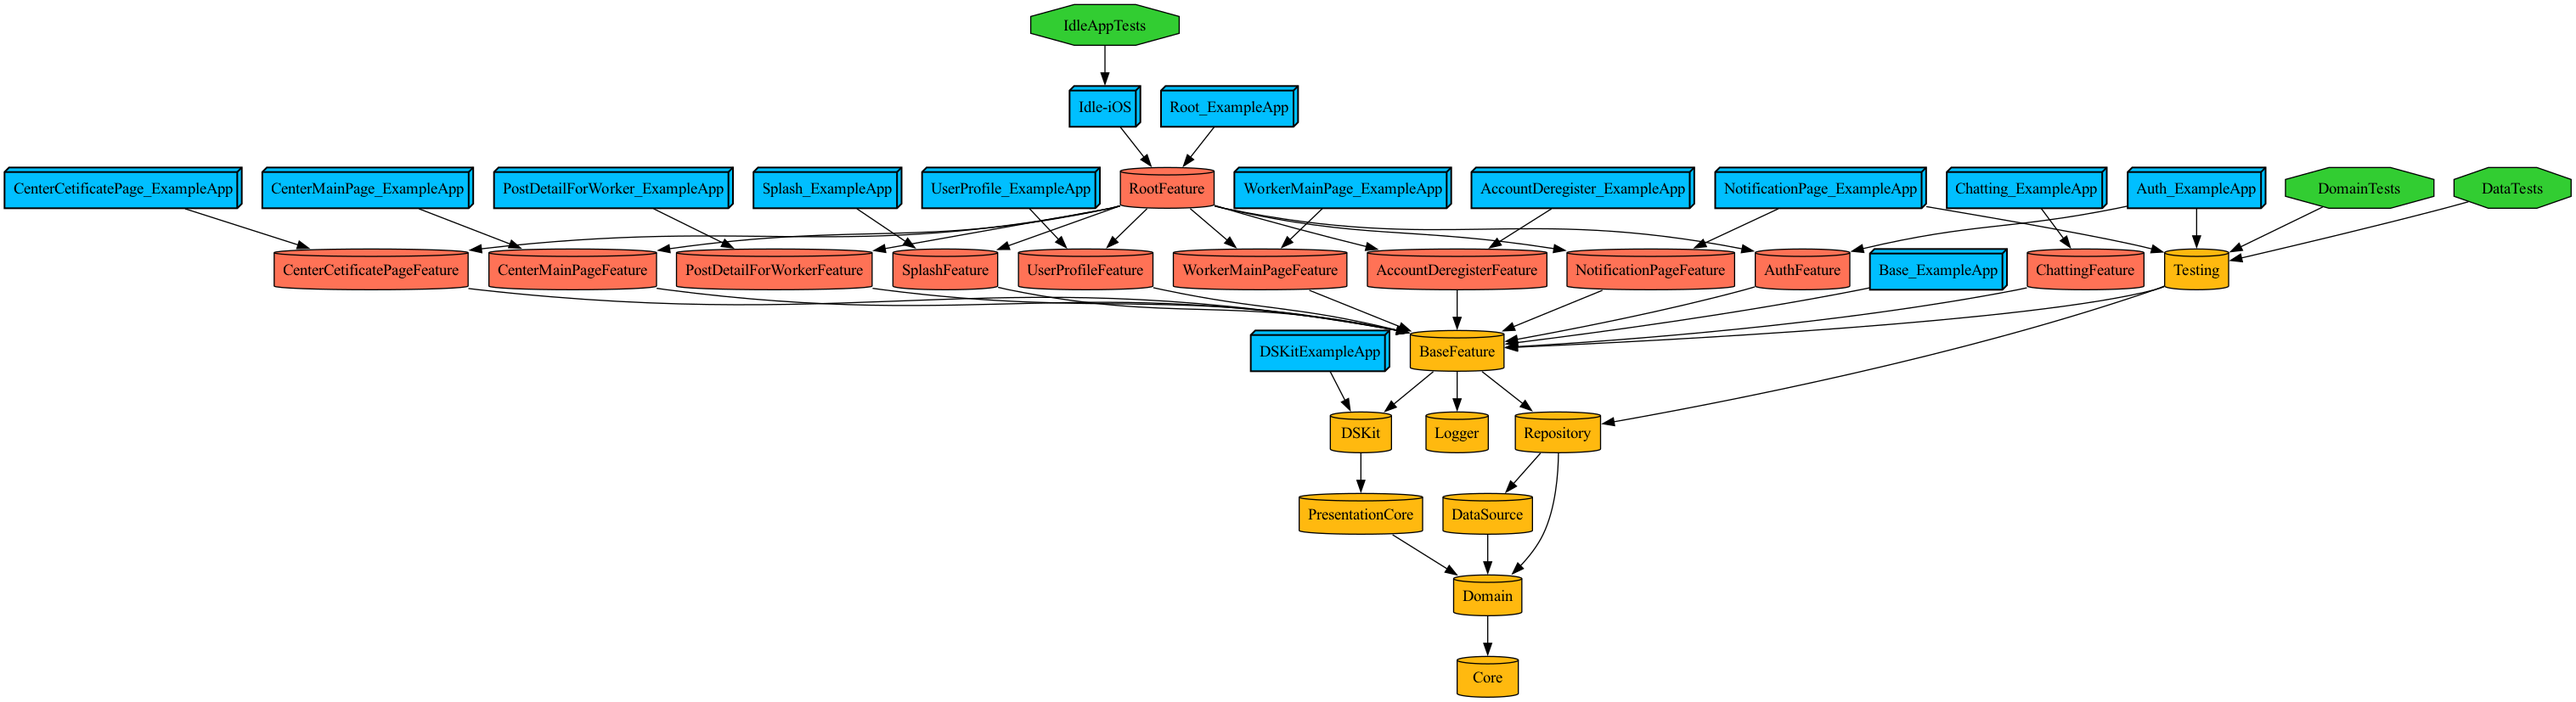
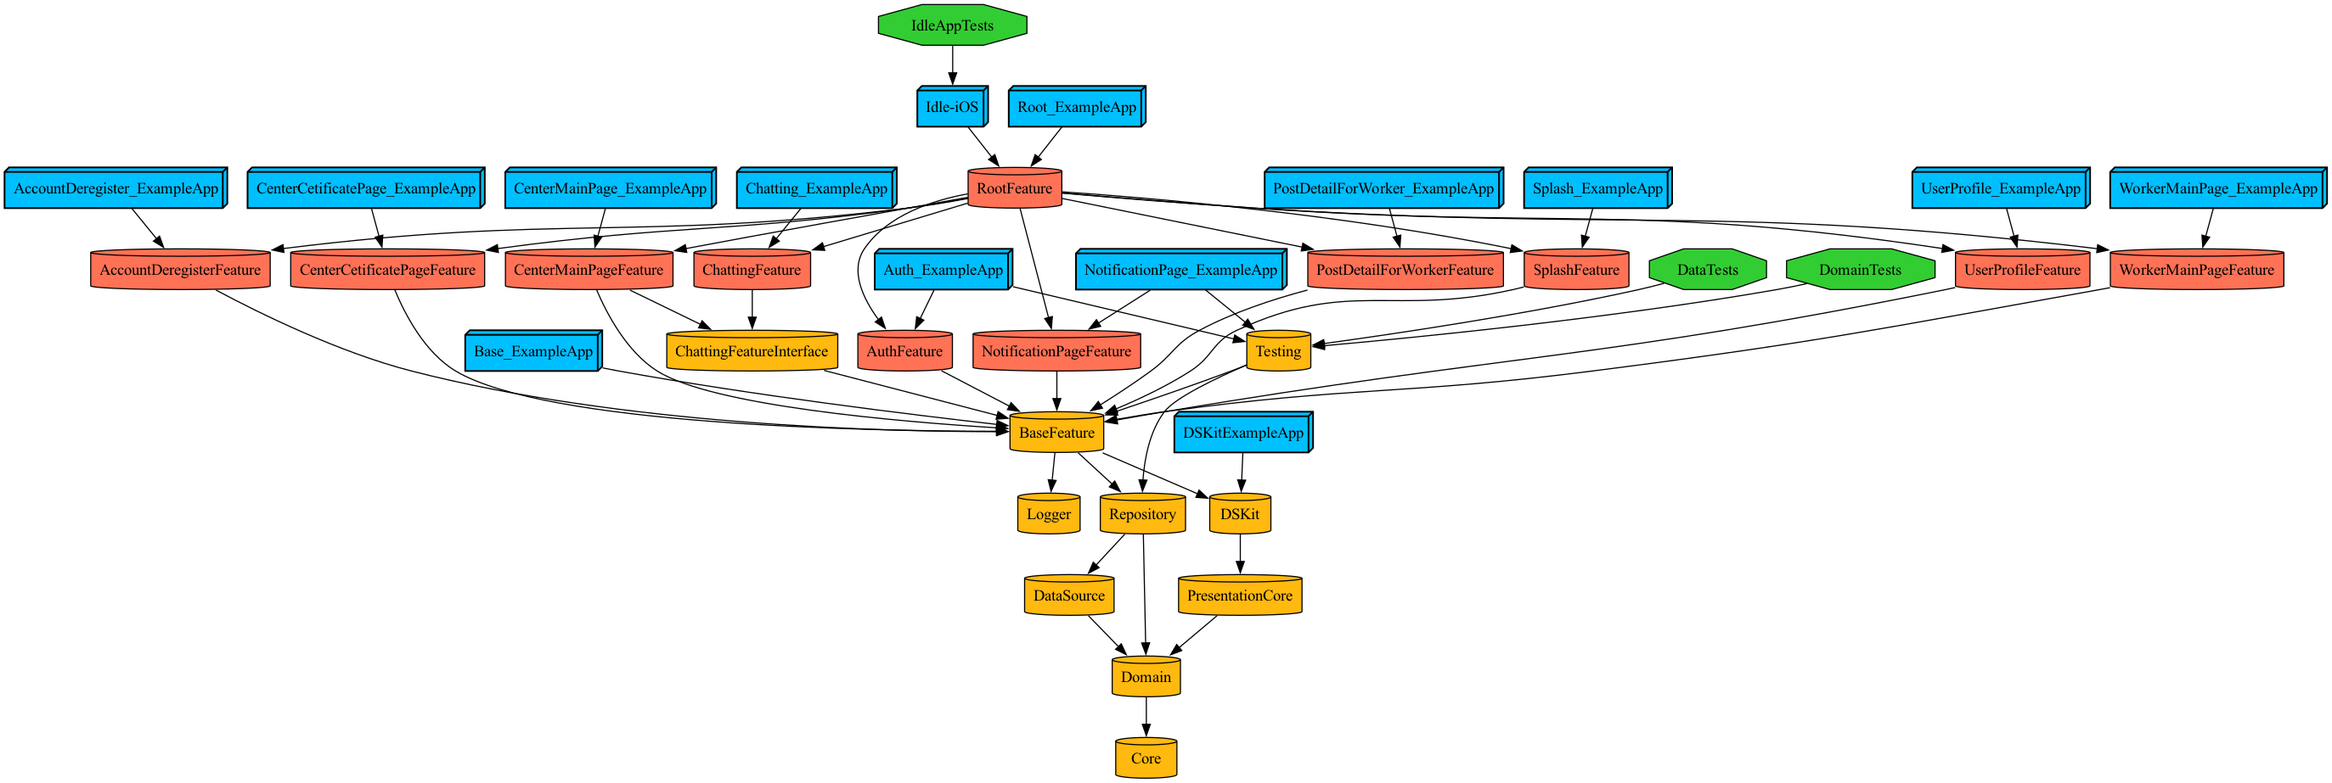
[IDLE-489] ChattingFeatureInterface 모듈 생성

diff --git a/project/Projects/Presentation/Feature/Chatting/Project.swift b/project/Projects/Presentation/Feature/Chatting/Project.swift
@@ -17,6 +17,21 @@ let project = Project(
     ),
     targets: [
         
+        .target(
+            name: "ChattingFeatureInterface",
+            destinations: DeploymentSettings.platforms,
+            product: .framework,
+            bundleId: "$(PRODUCT_BUNDLE_IDENTIFIER)",
+            deploymentTargets: DeploymentSettings.deployment_iOS_version,
+            sources: ["Interface/**"],
+            dependencies: [
+                D.Presentation.BaseFeature,
+            ],
+            settings: .settings(
+                configurations: IdleConfiguration.presentationConfigurations
+            )
+        ),
+        
         /// FeatureConcrete
         .target(
             name: "ChattingFeature",
@@ -28,7 +43,7 @@ let project = Project(
             resources: ["Resources/**"],
             dependencies: [
                 // Presentation
-                D.Presentation.BaseFeature,
+                D.Presentation.ChattingFeatureInterface,
             ],
             settings: .settings(
                 configurations: IdleConfiguration.presentationConfigurations

diff --git a/project/Projects/Presentation/Feature/Chatting/ExampleApp/Sources/SceneDelegate.swift b/project/Projects/Presentation/Feature/Chatting/ExampleApp/Sources/SceneDelegate.swift
@@ -15,12 +15,12 @@ class SceneDelegate: UIResponder, UIWindowSceneDelegate {
         
         guard let windowScene = scene as? UIWindowScene else { return }
         
-        let vc = ChattingListViewController()
-        let vm = ChattingListViewModel()
-        vc.bind(viewModel: vm)
+//        let vc = ChattingListViewController()
+//        let vm = ChattingListViewModel()
+//        vc.bind(viewModel: vm)
         
         window = UIWindow(windowScene: windowScene)
-        window?.rootViewController = vc
+//        window?.rootViewController = vc
         window?.makeKeyAndVisible()
     }
 }

diff --git a/project/Plugins/DependencyPlugin/ProjectDescriptionHelpers/ChattingFeatureDependency.swift b/project/Plugins/DependencyPlugin/ProjectDescriptionHelpers/ChattingFeatureDependency.swift
@@ -10,4 +10,6 @@ import ProjectDescription
 public extension ModuleDependency.Presentation {
     
     static let ChattingFeature: TargetDependency = .project(target: "ChattingFeature", path: .relativeToRoot("Projects/Presentation/Feature/Chatting"))
+    
+    static let ChattingFeatureInterface: TargetDependency = .project(target: "ChattingFeatureInterface", path: .relativeToRoot("Projects/Presentation/Feature/Chatting"))
 }

diff --git a/project/Projects/Presentation/Feature/Root/Project.swift b/project/Projects/Presentation/Feature/Root/Project.swift
@@ -40,6 +40,7 @@ let project = Project(
                 D.Presentation.PostDetailForWorkerFeature,
                 D.Presentation.UserProfileFeature,
                 D.Presentation.NotificationPageFeature,
+                D.Presentation.ChattingFeature,
                 
                 // ThirParty
                 D.ThirdParty.FirebaseMessaging,

diff --git a/project/Projects/Presentation/Feature/CenterMainPage/Project.swift b/project/Projects/Presentation/Feature/CenterMainPage/Project.swift
@@ -29,6 +29,7 @@ let project = Project(
             dependencies: [
                 // Presentation
                 D.Presentation.BaseFeature,
+                D.Presentation.ChattingFeatureInterface,
             ],
             settings: .settings(
                 configurations: IdleConfiguration.presentationConfigurations
